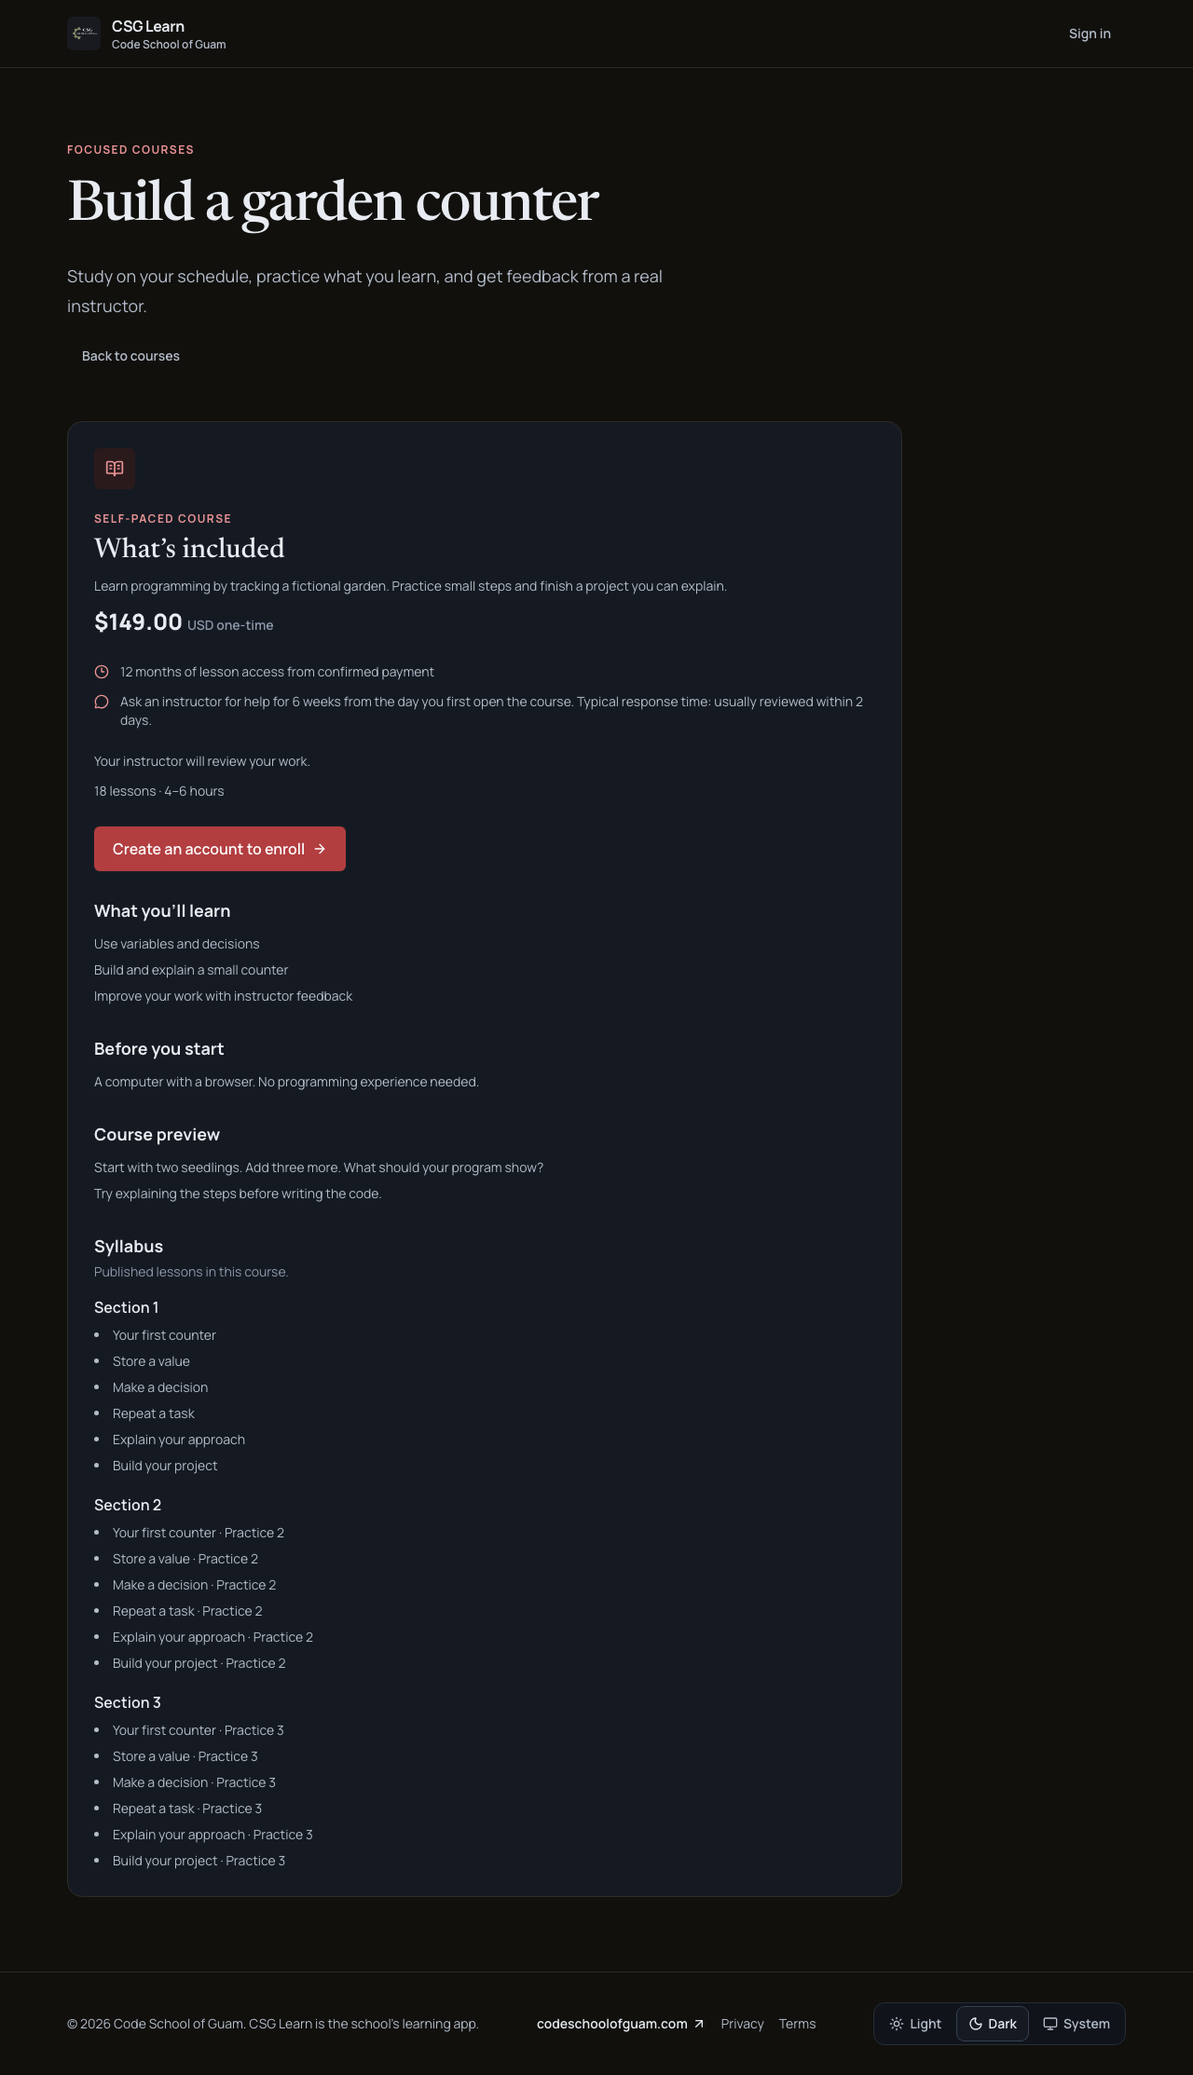
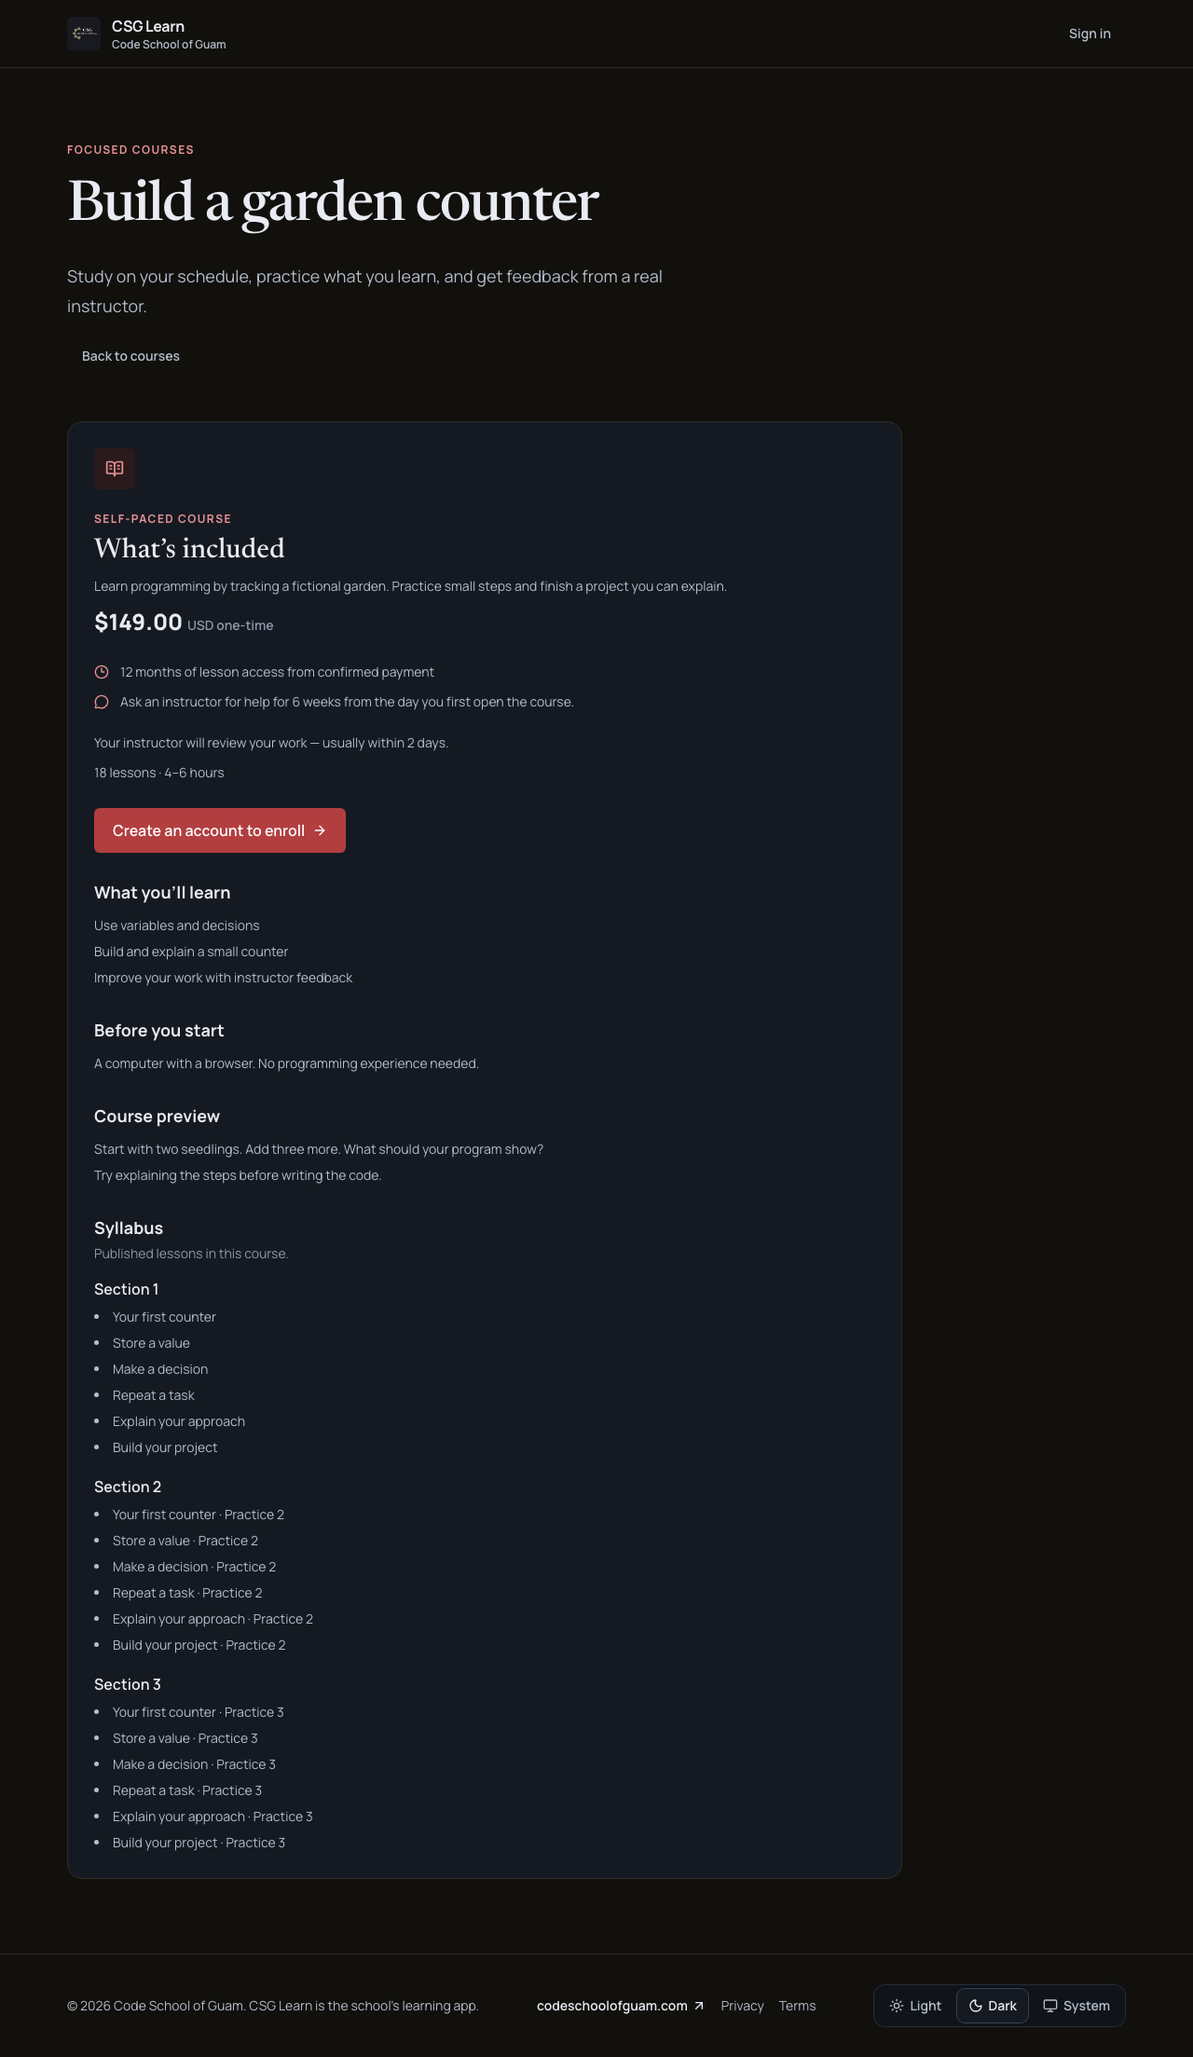
Record fix-round catalog acceptance and full two-mode gates

diff --git a/scripts/qa/catalog-course-pages.spec.ts b/scripts/qa/catalog-course-pages.spec.ts
@@ -22,9 +22,38 @@ async function check(page: Page, name: string, theme: string, width: number, scr
 for (const theme of ['light', 'dark']) {
   test.describe(theme, () => {
     test.use({ colorScheme: theme as 'light' | 'dark' })
-    test.beforeEach(async ({ page }) => {
+    test.beforeEach(async ({ page, request }) => {
+      await request.patch('/api/v1/feature_settings', { headers: { Authorization: 'Bearer test_token_1' }, data: { public_catalog_mode: 'automatic' } })
+      await request.patch('/api/v1/cohorts/2', { headers: { Authorization: 'Bearer test_token_1' }, data: { public_price_cents: 14900 } })
       await page.route('**/*', async route => ['127.0.0.1','localhost'].includes(new URL(route.request().url()).hostname) ? route.continue() : route.abort())
       await page.addInitScript(theme => localStorage.setItem('csg-learn:theme', theme), theme)
+    })
+    test('R1 landing follows all three school catalog modes with and without a sale', async ({ page, request }, info) => {
+      test.setTimeout(60000)
+      const headers = { Authorization: 'Bearer test_token_1' }
+      for (const mode of ['automatic', 'always', 'hidden']) {
+        for (const sale of [false, true]) {
+          expect((await request.patch('/api/v1/feature_settings', { headers, data: { public_catalog_mode: mode } })).ok()).toBe(true)
+          expect((await request.patch('/api/v1/cohorts/2', { headers, data: { public_price_cents: sale ? 14900 : null } })).ok()).toBe(true)
+          const loaded = page.waitForResponse(response => response.url().endsWith('/api/v1/course_offerings'))
+          await page.goto('/')
+          await loaded
+          await expect(page.getByRole('heading', { name: 'Build a skill. Put it to work.' })).toBeVisible()
+          // Wait for the public request, rather than accepting the initial Sign in state.
+          await expect.poll(async () => page.locator('main article').count()).toBe(sale && mode !== 'hidden' ? 1 : 0)
+          const available = mode === 'always' || (mode === 'automatic' && sale)
+          await expect(page.locator('main a.bg-action-primary').first()).toHaveText(available ? /Browse courses/ : /Sign in/)
+          await expect(page.getByRole('link', { name: 'See the course catalog', exact: true })).toHaveCount(available ? 1 : 0)
+          await check(page, `landing-${mode}-${sale ? 'sale' : 'empty'}`, theme, info.project.use.viewport!.width, true)
+        }
+      }
+      await page.goto('/courses/course-guided-private')
+      await expect(page.getByRole('heading', { name: 'This course isn’t available' })).toBeVisible()
+      await expect(page.getByRole('link', { name: 'Sign in', exact: true })).toBeVisible()
+      await expect(page.getByRole('link', { name: 'Browse courses', exact: true })).toHaveCount(0)
+      await expect(page.getByRole('button', { name: 'Try again' })).toHaveCount(0)
+      await expect(page).toHaveTitle('Course unavailable · CSG Learn')
+      await check(page, 'unlisted-hidden', theme, info.project.use.viewport!.width, true)
     })
     test('C1–C3 public landing, catalog, detail, legacy and unlisted course', async ({ page }, info) => {
       const width = info.project.use.viewport!.width
@@ -39,13 +68,14 @@ for (const theme of ['light', 'dark']) {
       await page.getByRole('link', { name: 'View course', exact: true }).click()
       await expect(page.getByRole('heading', { name: 'Build a garden counter', exact: true })).toBeVisible()
       await expect(page.getByRole('heading', { name: 'Syllabus', exact: true })).toBeVisible()
+      await expect(page).toHaveTitle('Build a garden counter · CSG Learn')
       await expect(page.getByText('18 lessons · 4–6 hours')).toBeVisible()
       await check(page, 'course', theme, width, true)
       await page.goto('/courses?offering_id=2')
       await expect(page.getByRole('link', { name: 'Create an account to enroll' })).toHaveAttribute('href', '/sign-up?offering_id=2')
       await check(page, 'legacy-link', theme, width)
       await page.goto('/courses/course-guided-private')
-      await expect(page.getByText('This course is not currently listed.', { exact: true })).toBeVisible()
+      await expect(page.getByRole('heading', { name: 'This course isn’t available', exact: true })).toBeVisible()
       await expect(page.getByRole('link', { name: 'Create an account to enroll' })).toHaveCount(0)
       await check(page, 'unlisted', theme, width)
     })
@@ -86,11 +116,11 @@ for (const theme of ['light', 'dark']) {
       const width = info.project.use.viewport!.width
       for (const [user, cohort, lesson] of [[6,2,23],[3,1,5]]) {
         await page.goto(`/lessons/${lesson}?cohort_id=${cohort}&qa_user=${user}`)
-        await expect(page.getByText(/Your instructor will review it and reply here. Typical response time: usually reviewed within 2 days/)).toBeVisible()
+        await expect(page.getByText(/Your instructor will review it — usually within 2 days/)).toBeVisible()
         await check(page, `review-${user}`, theme, width)
       }
       await page.goto('/admin/grading?qa_user=2')
-      await expect(page.getByText('Self-paced', { exact: true }).first()).toBeVisible()
+      await expect(page.getByText(/ · self-paced/).first()).toBeVisible()
       await check(page, 'grading', theme, width)
     })
     test('C7 admin marketing and response settings preserve checkout', async ({ page }, info) => {
@@ -109,17 +139,17 @@ for (const theme of ['light', 'dark']) {
       await page.getByRole('button', { name: 'Save settings', exact: true }).click()
       await expect(page.getByRole('main').getByText('Cohort settings saved', { exact: true })).toBeVisible()
       await page.getByLabel('Typical response time', { exact: true }).fill('usually reviewed within 3 days')
-      await page.getByRole('button', { name: 'Save response time', exact: true }).click()
-      await expect(page.getByText('Response time saved.', { exact: true })).toBeVisible()
+      await page.getByRole('button', { name: 'Save settings', exact: true }).click()
+      await expect(page.getByRole('main').getByText('Cohort settings saved', { exact: true })).toBeVisible()
       await page.reload()
       await expect(page.getByLabel('Typical response time', { exact: true })).toHaveValue('usually reviewed within 3 days')
       await expect(checkout).toBeChecked()
       await page.goto('/lessons/23?cohort_id=2&qa_user=6')
-      await expect(page.getByText(/Your instructor will review it and reply here. Typical response time: usually reviewed within 3 days/)).toBeVisible()
+      await expect(page.getByText(/Your instructor will review it — usually within 3 days/)).toBeVisible()
       await page.goto('/admin/cohorts/2?tab=settings&qa_user=1')
       await page.getByLabel('Typical response time', { exact: true }).fill('')
-      await page.getByRole('button', { name: 'Save response time', exact: true }).click()
-      await expect(page.getByText('Response time saved.', { exact: true })).toBeVisible()
+      await page.getByRole('button', { name: 'Save settings', exact: true }).click()
+      await expect(page.getByRole('main').getByText('Cohort settings saved', { exact: true })).toBeVisible()
       await check(page, 'admin-settings', theme, width)
     })
   })

diff --git a/docs/qa/catalog-course-pages-2026-11-17.md b/docs/qa/catalog-course-pages-2026-11-17.md
@@ -1,8 +1,8 @@
 # Catalog and course pages — W6 PR 6.3
 
 Agent-executed affected-flow QA. Base: main `51b0d7ce`, 2026-11-17.
-Tested implementation: `8a765faafd020fa4822eebe2614d1e6ca5b0ba2f`. The follow-up QA-record commit changes
-documentation only. Chromium local harness on macOS; Ruby 3.3.7 and PostgreSQL 16
+Initial implementation: `8a765faafd020fa4822eebe2614d1e6ca5b0ba2f`. Fix-round results
+below supersede the initial gate and screenshots where indicated. Chromium local harness on macOS; Ruby 3.3.7 and PostgreSQL 16
 on the ASUS runner for the full API suite.
 
 ## Context and acceptance
@@ -39,7 +39,10 @@ coverage. Checkout is simulated unless local sandbox keys can be verified.
 | C6 | Self-paced and guided: inspect submitted waiting work | Instructor review promise and configured response time; staff queue includes delivery badge | passed |
 | C7 | Admin edits public marketing and school/cohort review time | Values persist; inherited default works; checkout visibility unchanged | passed |
 
-## Verification and evidence
+## Initial verification and evidence
+
+These pre-review results are historical; the Fix round 1 section records the
+merged implementation and current acceptance.
 
 Browser: all seven required cases passed at all four viewport/theme combinations.
 The main matrix passed 19/20, then C6 passed all four dimensions after waiting for
@@ -83,16 +86,19 @@ offenses. Brakeman: zero errors and zero security warnings (one existing ignored
 warning). The final full run used the runner-only port adapter and
 `prepared_statements=false`; no repository tests were skipped or filtered.
 
-## Runtime notes
+## Initial runtime notes
 
 The first full API run had 1,848 runs, zero assertion failures and three runner
 errors: existing `MigrationDatabaseProcessTest` cases connect directly to port
 5432, while `asus-test` publishes its disposable PostgreSQL on 55432. A runner-only
 port adapter is used for the final full pass; repository test source is unchanged.
 The second API run reached 1,848 runs with zero assertion failures and one
-pre-existing concurrency error (`cached plan must not change result type`) after
-schema-rewriting migration fixtures. The final run disables prepared statements
-on the disposable test connection, as the project's transaction-pooler gate does.
+cached-plan error (`cached plan must not change result type`) after schema-rewriting
+migration fixtures. The initial assessment that this was unrelated was wrong:
+adding the orientation column exposed a migration fixture that reordered enrollment
+columns without clearing every pooled connection. Disabling prepared statements
+made that initial run pass but did not prove the fix. Fix round 1 repairs cache
+invalidation and runs both connection modes, including default seed 26023.
 The ASUS build also needs a temporary Git index for `git ls-files -- brand-public`,
 because `asus-test` intentionally omits `.git` from its secret-free source copy.
 
@@ -125,7 +131,7 @@ Start here: [desktop light](catalog-course-pages-2026-11-17/start-here-1280-ligh
 
 Migration `20261117090000` is later than every migration on the requested main.
 It adds marketing/response/orientation fields and the unique slug index, backfills
-opaque ID-based slugs without touching checkout, and preserves purchase snapshots.
+readable public-title slugs (with collision suffixes and safe ID fallbacks) without touching checkout, and preserves purchase snapshots.
 Deploy the API migration before clients depend on the new public fields. No sales
 flags, provider configuration, prices or production data were changed by this task.
 PR is to remain unmerged; deployed availability is not claimed.
@@ -141,18 +147,73 @@ exit. No shared service, simulator, unrelated tab or worktree was stopped.
 
 ## Fix round 1 — acceptance and execution
 
-Review refresh: merged main (#281 / ac28c0b9) with the server-paged Grading
-workbench. The queue's existing delivery label and payload replace the old badge.
-The earlier prepared-statements workaround was insufficient: the migration test
-changed enrollment column order and left pooled prepared plans stale. This round
-clears every pooled connection after structural migration rehearsals, and requires
-seed 26023 to pass with prepared statements enabled as well as disabled.
+Tested application code: `e7b22fa1` (fixes in `12aec257`, merged main through
+`c62eb42a`, including #281 grading workbench and #279 Updates composer). The
+follow-up commit adds the browser regression, refreshed screenshots and this
+record. The server-paged queue's existing delivery label replaces the old badge.
+OpenAPI was merged and both clients regenerated after each main merge.
 
-Acceptance: three catalog-link modes with and without a sale; readable immutable
-slugs with transliteration/collisions/reserved routes and matching migration
-backfill; constant-cost missing-slug lookup; cohort-scoped async dismissal;
-readiness from current copy; response-time draft saved and guarded with cohort
-settings; grammatical review copy; proper unavailable-course recovery and title.
-Agent-executed browser checks at 1280/390, light/dark, using isolated fixtures.
-Results are pending the fix-round run; earlier screenshots/results describe the
-previous head and are not evidence for the changed behavior.
+The migration fixture now clears every pooled connection after restoring
+`enrollments.content_moved_at`. Other structural down/up fixtures received the
+same cleanup. The gate asserts the actual connection mode before each full run;
+the default run must retain prepared statements. The runner-only port adapter
+remains necessary for `MigrationDatabaseProcessTest` and changes no checked-in
+source.
+
+| Fix-round acceptance | Evidence | Result |
+| --- | --- | --- |
+| Automatic / Always / Hidden, with and without a sale | Home unit matrix and six actual API-backed browser states per dimension | passed |
+| Course page, old offering link and unavailable course | Public navigation, page title, no retry on 404, Hidden recovery to Sign in | passed |
+| One-time Start here, including an A-to-B dismissal race | Paid return/dismiss/reload browser flow and deferred-response component test | passed |
+| Readable immutable addresses | API regressions for transliteration, collision suffixes, blank/reserved fallback and migration parity | passed in both full modes |
+| Flat missing-slug lookup | QueryCounter before/after 20 added candidates | passed in both full modes |
+| Readiness uses unsaved public copy | Offering form regression | passed |
+| Response-time draft participates in Save settings and navigation guard | Cohort form regressions plus edit/save/reload and learner-visible override in browser | passed |
+| Natural review copy and self-paced queue context | Phrase regressions, guided/self-paced browser lessons and merged grading queue | passed |
+
+Browser rerun: **24/24 Playwright tests passed** on local Chromium, 1280 and
+390 CSS pixels, light and dark. Every dimension covered all six landing-policy
+conditions, public navigation, course/unlisted pages, simulated checkout, paid
+Today/Start here, both review modes, grading context, and saved admin marketing
+and response-time edits. Stable-state axe scans found no serious/critical WCAG
+2.1 AA violations and no horizontal overflow. These checks do not establish
+Safari, native-device, real Clerk signup, real Stripe transport or deployment
+coverage. The hosted checkout remains explicitly stubbed because no local sandbox
+keys were available. No payment or provider session was created.
+
+Focused web regressions after merging #279: 7 files / 53 tests passed. Focused API:
+10 runs / 78 assertions passed. Both full API runs on ASUS used seed 26023 and
+`OPENAPI_COVERAGE=1 PARALLEL_WORKERS=1`: **1,899 tests / 40,910 assertions each,
+zero failures/errors/skips**, first with prepared statements enabled, then with
+`?prepared_statements=false`. RuboCop: 684 files, no offenses. Brakeman: zero
+errors and zero security warnings (one existing ignored warning). The first full web run stopped at one obsolete Dashboard sentence assertion
+(2,406 other tests passed). `04fd20eb` updates that assertion and checks both
+default and configured response phrases; its focused Dashboard suite passed
+25/25 tests. No application code changed after the browser run. The complete web rerun passed on ASUS: typecheck, ESLint, Vitest
+(208 files / 2,408 tests), build, `test:bundle` and `api:check`. Both generated
+clients match OpenAPI. Mobile on Node 22.22.3: typecheck and lint passed (74 warnings, zero errors);
+Jest passed 136 suites / 1,428 tests. The ASUS command exited successfully. Impeccable advisory scan: `[]`.
+
+Updated course and Start-here screenshots above come from this round. Landing
+policy evidence (each also has 390px and dark variants alongside it):
+
+| Policy and sale state | Light | Dark |
+| --- | --- | --- |
+| Automatic, empty | [desktop](catalog-course-pages-2026-11-17/landing-automatic-empty-1280-light.png) | [desktop](catalog-course-pages-2026-11-17/landing-automatic-empty-1280-dark.png) |
+| Automatic, on sale | [desktop](catalog-course-pages-2026-11-17/landing-automatic-sale-1280-light.png) | [desktop](catalog-course-pages-2026-11-17/landing-automatic-sale-1280-dark.png) |
+| Always, empty | [desktop](catalog-course-pages-2026-11-17/landing-always-empty-1280-light.png) | [desktop](catalog-course-pages-2026-11-17/landing-always-empty-1280-dark.png) |
+| Always, on sale | [desktop](catalog-course-pages-2026-11-17/landing-always-sale-1280-light.png) | [desktop](catalog-course-pages-2026-11-17/landing-always-sale-1280-dark.png) |
+| Hidden, empty | [desktop](catalog-course-pages-2026-11-17/landing-hidden-empty-1280-light.png) | [desktop](catalog-course-pages-2026-11-17/landing-hidden-empty-1280-dark.png) |
+| Hidden, on sale | [desktop](catalog-course-pages-2026-11-17/landing-hidden-sale-1280-light.png) | [desktop](catalog-course-pages-2026-11-17/landing-hidden-sale-1280-dark.png) |
+| Unavailable, catalog hidden | [desktop](catalog-course-pages-2026-11-17/unlisted-hidden-1280-light.png) | [desktop](catalog-course-pages-2026-11-17/unlisted-hidden-1280-dark.png) |
+
+Fix-round cleanup: both harness databases (`csg_qa_87149_1794873335` and
+`csg_qa_19116_1794873657`) and targeted API database
+`csg_qa_catalog_r1_targeted_test` were dropped. Exact task-owned Rails/Vite PIDs,
+Playwright processes and the preview tab were stopped/closed; lifecycle status
+reports no active owned browser/server resources. ASUS verification completed successfully; its wrapper removed the disposable
+PostgreSQL container and test databases and terminated its WSL instance at exit.
+The exact client-gate process has exited. No runtime resource is handed off.
+
+Follow-ups outside this round: show review time on My work when it arrives in W8;
+mobile Start-here card and review time.

diff --git a/docs/SELF_PACED_COURSE_LAUNCH.md b/docs/SELF_PACED_COURSE_LAUNCH.md
@@ -32,9 +32,11 @@ The `course_purchase_terms_positive` and `enrollment_support_weeks_positive` che
 
 ## Public course pages and review times
 
-An offering's public course address is `/courses/:slug`. Existing cohorts receive
-`course-<id>` addresses; newly created cohorts receive unique opaque addresses.
-Changing a public title keeps its address. Existing `/courses?offering_id=` links
+An offering's public course address is `/courses/:slug`. The migration and new
+cohorts use the public catalog title, transliterated to lowercase ASCII, such as
+`python-fundamentals`. Collisions receive `-2`, `-3`, and so on. Empty titles and
+reserved route names use `course-<id>`. An address is assigned once; changing a
+public title keeps its address. Existing `/courses?offering_id=` links
 continue to select the course. Unlisted, inactive, empty, or draft-curriculum
 courses are unavailable through the public detail endpoint.
 
